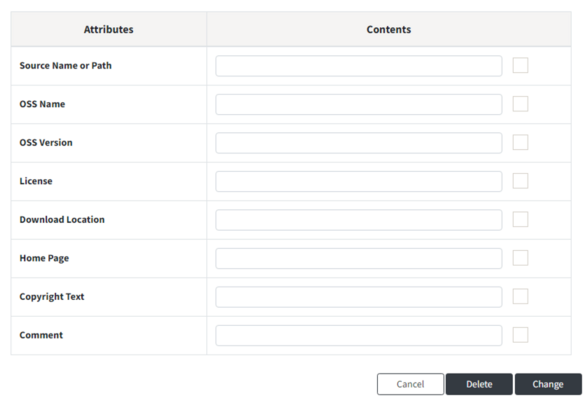
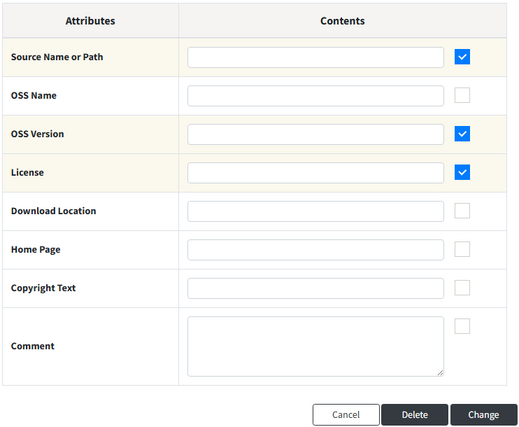
modify oss table

diff --git a/tips/1_common/1_oss_table/README.md b/tips/1_common/1_oss_table/README.md
@@ -36,12 +36,13 @@ published: true
 
 **Bulk Edit** 
  - Click the <img src="../../images/common/oss_table_buttons/bulk_edit.png" width="12" height="16" /> button to update all selected rows with the same contents.
-    - After selecting the item, enter the content you want to change and click the "Change" button.  
+    - After selecting the items from the checkboxes, enter the content you want to change and click the "Change" button.  
+    - After selecting the items from the checkboxes, click the "Delete" button to remove all content of the selected items from the OSS Table.
         ![BulkEditDetail](../../images/common/oss_table_buttons/bulk_edit_detail.png){: .styled-image}  
 
 **Export**
 - Click the <img src="../../images/common/oss_table_buttons/download.png" width="12" height="16" /> button to export the OSS Table contents in the selected format.
-    - BOM Tab : You can download the FOSSLight Report and in various formats for SBOM management.  
+    - BOM Tab : You can download the FOSSLight Report and in various formats for the SBOM standard.  
     ![ExportListBOM](../../images/common/oss_table_buttons/export_popup_2.png){: .styled-image}    
     - Tab other than BOM" : You can download the FOSSLight Report.   
     ![ExportListOthers](../../images/common/oss_table_buttons/export_popup_1.png){: .styled-image}<br><br><br><br>  
@@ -70,7 +71,7 @@ If the Open Source is registered in the system, you can automatically retrieve t
 
 ## OSS Table Search
 {: .left-bar-title }
-Beneath the header of the OSS Table, there is a filter for searching. You can use this filter to search for specific values within each column.  
+The header of the OSS Table, there is a filter for searching. You can use this filter to search for specific values within each column.  
 ![OSSTableSearch](../../images/common/oss_table_functions/oss_table_search.png)
 - The Filter is composed as follows:  
     - Search Input Field(![ExportListBOM](../../images/common/oss_table_buttons/search_input.png))  
